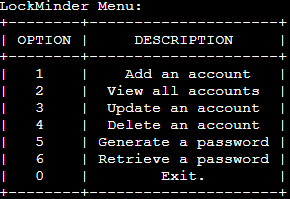
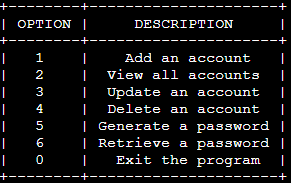
Edit images on README.md with the updated program version.

diff --git a/README.md b/README.md
@@ -1,6 +1,6 @@
 # LockMinder
 <p align="center">
-  <img src="./readme/initial.png" alt="Initial">
+  <img src="./readme/introduction.gif" alt="Initial">
 </p>
 
 LockMinder is a user-friendly password manager software that helps you securely store and manage your account credentials. With an intuitive menu-based interface, you can easily add, view, update, and delete accounts in the encrypted SQLite database. LockMinder also offers a password generation tool for creating strong and randomized passwords. Simplify your digital life and keep your passwords safe with LockMinder.
@@ -159,7 +159,7 @@ Thanks to the template added in the front-end files, users can now interact with
 ### Retrieve a Password
 - The "Retrieve a Password" function enables users to access the password and other account details of a specific account stored in the credentials database. When users select this option from the main menu, they are prompted to enter the account ID of the desired account. Once the ID is provided, the function displays the corresponding account's information, including the associated service, username, and password, on the screen, allowing users to retrieve their account credentials with ease.
 <p align="center">
-  <img src="./readme/retrieve-a-password.gif" alt="Generate a Password">
+  <img src="./readme/retrieve-a-password.gif" alt="Retrieve a Password">
 </p>
 
 ### Exit
@@ -304,6 +304,16 @@ By rigorously testing the application, we can confidently deliver a reliable and
 | 51        | There is no entry number 3              | Pass      |
 | A        | Invalid input. Please enter an integer number | Pass    |
 | 100        | Invalid input. Please enter an integer number from 1 to 50                         | Pass      |
+
+
+</details>
+
+<details>
+  <summary>Exit the program</summary>
+
+| Return Result                     | Pass/Fail |
+|-----------------------------------|-----------|
+| You have now exited the program.  | Pass      |
 
 
 </details>
